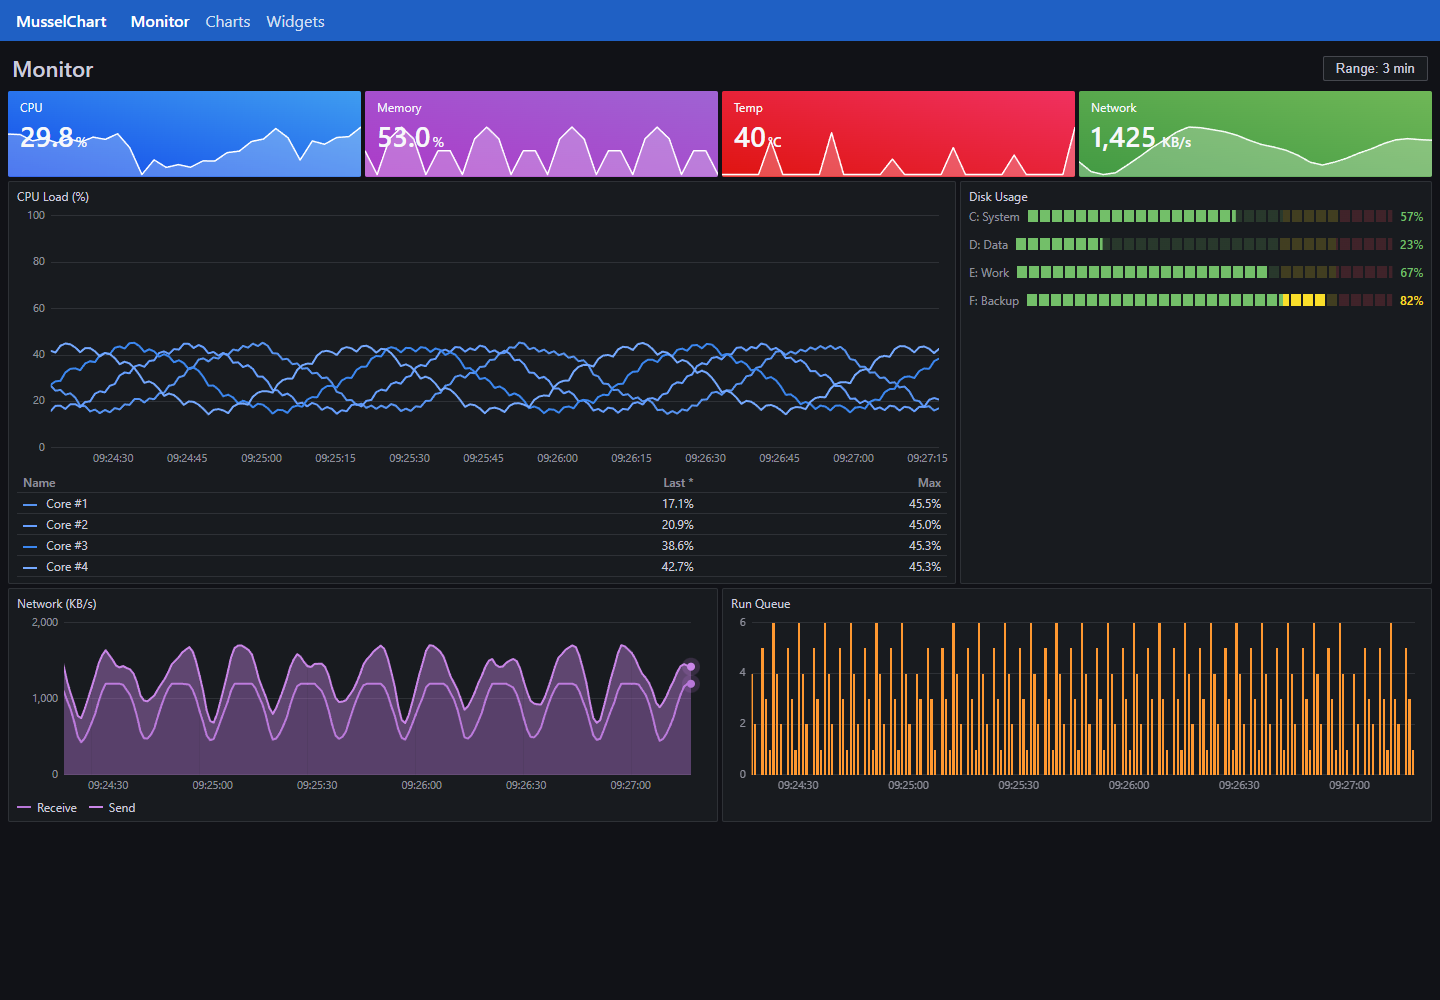
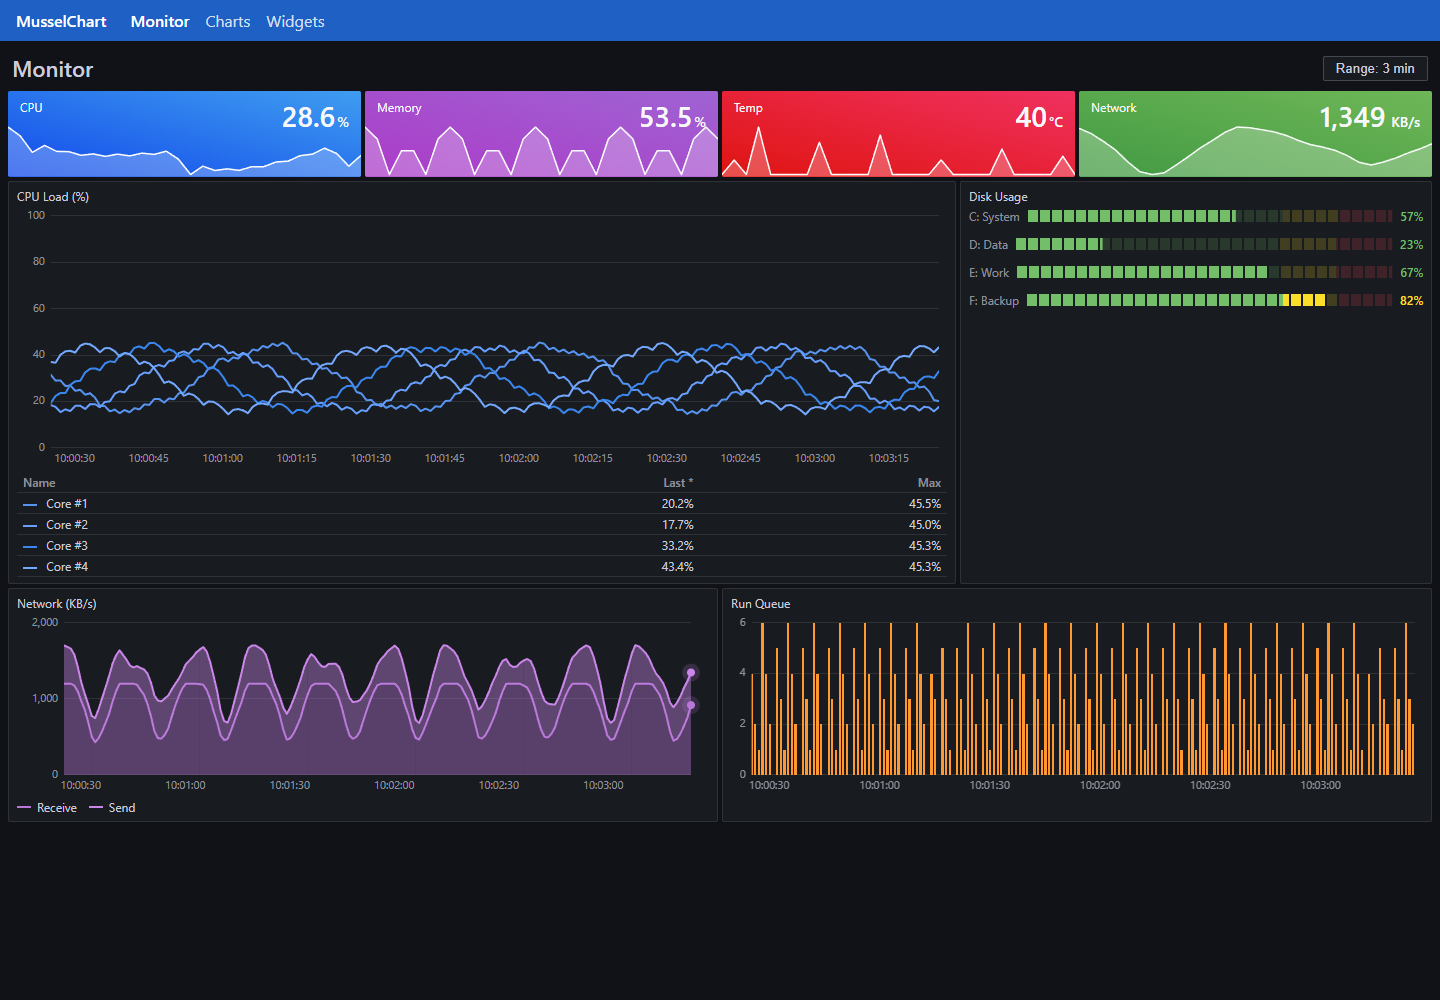
Update

diff --git a/MusselChart/MusselStatView.razor.css b/MusselChart/MusselStatView.razor.css
@@ -49,6 +49,19 @@
     font-size: 14px;
 }
 
+.mussel-stat-horizontal .mussel-stat-header {
+    display: flex;
+    align-items: flex-start;
+    justify-content: space-between;
+    gap: 8px;
+}
+
+.mussel-stat-horizontal .mussel-stat-value {
+    margin-top: 0;
+    text-align: right;
+    white-space: nowrap;
+}
+
 .mussel-stat-trend {
     display: block;
     margin-top: 4px;

diff --git a/MusselChart/MusselStatView.razor.cs b/MusselChart/MusselStatView.razor.cs
@@ -64,6 +64,9 @@ public sealed partial class MusselStatView
     public ChartStatColorMode ColorMode { get; set; }
 
     [Parameter]
+    public ChartStatLayoutMode LayoutMode { get; set; }
+
+    [Parameter]
     public ChartFillMode FillMode { get; set; }
 
     [Parameter]
@@ -111,6 +114,7 @@ public sealed partial class MusselStatView
 
         var text = filled ? (ChartColor.Brightness(tileColor) > BrightThreshold ? " mussel-stat-dark-text" : " mussel-stat-light-text") : string.Empty;
         var empty = Double.IsNaN(Value) ? " mussel-stat-empty" : string.Empty;
-        rootClass = "mussel-stat" + text + empty;
+        var layout = LayoutMode == ChartStatLayoutMode.Horizontal ? " mussel-stat-horizontal" : string.Empty;
+        rootClass = "mussel-stat" + layout + text + empty;
     }
 }

diff --git a/MusselChart.Tests/MusselWidgetTests.cs b/MusselChart.Tests/MusselWidgetTests.cs
@@ -75,6 +75,18 @@ public sealed class MusselWidgetTests : BunitContext
     }
 
     [Fact]
+    public void StatHorizontalLayoutPlacesValueBesideTitle()
+    {
+        var cut = Render<MusselStatView>(parameters => parameters
+            .Add(static p => p.Title, "CPU")
+            .Add(static p => p.Value, 1)
+            .Add(static p => p.LayoutMode, ChartStatLayoutMode.Horizontal));
+
+        Assert.Equal("mussel-stat mussel-stat-horizontal", cut.Find("div").ClassName);
+        Assert.Equal(["mussel-stat-title", "mussel-stat-value"], cut.Find(".mussel-stat-header").Children.Select(static x => x.ClassName));
+    }
+
+    [Fact]
     public void GaugeDrawsRatioValueAndTarget()
     {
         var cut = Render<MusselBarGaugeView>(parameters => parameters

diff --git a/MusselChart/ChartStatLayoutMode.cs b/MusselChart/ChartStatLayoutMode.cs
@@ -1,0 +1,7 @@
+namespace MusselChart;
+
+public enum ChartStatLayoutMode
+{
+    Vertical,
+    Horizontal
+}

diff --git a/README.md b/README.md
@@ -4,9 +4,8 @@
 
 ## 🐚 What is this?
 
-Charts for Blazor Server and Blazor WebAssembly drawn as SVG by Razor, made for dashboards and widgets.  
-Lines, areas, bars, KPI tiles, sparklines and bar gauges follow the names and the look of [ClamChart](https://github.com/usausa/clam-chart) for .NET MAUI.  
-A page needs no JavaScript library; a small module of the package measures the width and draws the tooltip in the browser.  
+Charts for Blazor drawn as SVG, made for dashboards and widgets.  
+Lines, areas, bars, KPI tiles, sparklines and bar gauges follow the look of [ClamChart](https://github.com/usausa/clam-chart) and stay light on Blazor Server, where only the new points go over the circuit.  
 
 | 🖥 Monitoring board | 📈 Charts | 🔢 Widgets |
 |:-:|:-:|:-:|
@@ -14,117 +13,47 @@ A page needs no JavaScript library; a small module of the package measures the w
 
 ## 🚀 Quick Start
 
-Add the package and its namespace.  
+Import the namespace; the styles come with the `{App}.styles.css` of the application.  
 
 ```razor
 @using MusselChart
 ```
 
-The styles of the components come with the `{App}.styles.css` of the application.  
-Link `musselchart.css` only when the dark values are used.  
-
-```html
-<link rel="stylesheet" href="_content/MusselChart/musselchart.css" />
-```
-
-Write the axes and the series inside a chart, with typed delegates for X and Y.  
+Write the axes and the series inside a chart.  
 
 ```razor
-<MusselChartView Height="260"
-                 LegendMode="ChartLegendMode.Table"
-                 LegendValues="ChartLegendValues.Last | ChartLegendValues.Max"
-                 TrackingGroup="monitor">
+<MusselChartView Height="240" TrackingGroup="monitor">
     <DateTimeAxis WindowSize="TimeSpan.FromMinutes(3)" />
     <NumericAxis Minimum="0" Maximum="100" />
     <LineSeries Items="Samples" X="static x => x.Time" Y="static x => x.Cpu" Title="CPU" ValueFormat="{0:N1}%" />
-    <AreaSeries Items="Samples" X="static x => x.Time" Y="static x => x.Io" Title="IO" FillOpacity="0.4" />
 </MusselChartView>
-
-<MusselStatView Title="CPU" Value="Cpu" Unit="%" ValueFormat="N1" TrendValues="CpuTrend"
-                ColorMode="ChartStatColorMode.Background" FillMode="ChartFillMode.Gradient" Fill="#5794F2"
-                TrendPlacement="ChartTrendPlacement.Background" />
 ```
 
-## ⚡ Real-time
-
-Give real-time data a `ChartRingBuffer<T>`.  
-A background service pushes each item once, every page reads the same buffer, and each chart draws only the items added since its last render.  
+Fill a `ChartRingBuffer<T>` from a background service; every page shares it and each chart draws only the new items.  
 
 ```csharp
 public ChartRingBuffer<Sample> Samples { get; } = new(190);
-
-Samples.Push(new Sample(DateTime.UtcNow, cpu, io));
 ```
-
-Points are kept in data coordinates and moved by a transform, and lines and areas are cut into keyed pieces of 32 points, so a new point sends only the last piece and the transform over the circuit of Blazor Server.  
-A board of four tiles, three charts and a gauge updated every second sends about 10 KB a second to a viewer before compression.  
-Other lists are read again on every render, so keep them for data that changes rarely.  
 
 ## 🎨 Look
 
-The colors are CSS variables with light defaults; set them on any container to restyle the charts inside it.  
-`musselchart.css` adds the class `mussel-dark` with the dark values.  
-
-| Variable | Use |
+| Part | Detail |
 |---|---|
-| `--mussel-primary-text`, `--mussel-secondary-text`, `--mussel-muted-text` | Text, axis labels and empty text |
-| `--mussel-grid-line`, `--mussel-track` | Grid lines, legend lines and the tracks of gauges |
-| `--mussel-tooltip-background`, `--mussel-tooltip-border`, `--mussel-tooltip-text` | Tooltip |
-| `--mussel-good`, `--mussel-warning`, `--mussel-serious`, `--mussel-critical` | Threshold lines and bands |
-
-Series colors come from `Palette` (`ChartPalettes`: default, Grafana, Material and single-hue shades, light and dark) or `Color`.  
+| Theme | CSS variables (`--mussel-primary-text`, `--mussel-grid-line` and more) with light defaults; `musselchart.css` adds the dark `mussel-dark` |
+| Colors | `Palette` (`ChartPalettes`: default, Grafana, Material and shades) or `Color` of a series |
+| Thresholds | Lines and bands on charts, the state of tiles and the colors of gauges |
+| Tiles and gauges | `ColorMode` and `LayoutMode` of a KPI tile, basic and segmented gauges |
 
 ## ✅ Supported features
 
 | Category | Detail |
 |---|---|
-| **Charts** | Line, area and bar series mixed in one chart, areas stacked by `StackGroup`, KPI tiles, line, area and bar sparklines, basic and segmented bar gauges |
-| **Axes** | A date and time axis with a sliding window, fixed ends and calendar ticks in a time zone, a numeric axis with fixed and soft ends, zero and nice ranges |
-| **Data** | `Items` with typed `X` and `Y` delegates, `ChartRingBuffer<T>` read incrementally, missing values (`NaN`) as gaps |
-| **Interaction** | A crosshair and a tooltip under the pointer (hover with a mouse, while touching on a touch screen), shared by `TrackingGroup`, and legend toggles |
-| **Look** | Legend as a list or a table with last, minimum, maximum and mean, threshold lines and bands, a pulsing live point, CSS variables and palettes |
-| **Size** | The width follows the container without scaling the text; before it is measured the chart is drawn 640 wide and scaled |
-
-Not yet: category and numeric X axes, pies, radars, heatmaps, state timelines, scatter and range bars, markers, smooth lines, annotations, selection, downsampling and animations other than the live point.  
-The tooltip formats values with `ValueFormat` (`N`, `F` and `P` formats and the compact number format) and does not call `ValueFormatter`.  
+| **Charts** | Line, area and bar series in one chart, stacked areas, KPI tiles, sparklines and bar gauges |
+| **Axes** | A date and time axis with a sliding window, a numeric axis with fixed and soft ranges |
+| **Data** | Typed `X` and `Y` delegates, `ChartRingBuffer<T>` read incrementally, gaps for missing values |
+| **Interaction** | A crosshair and a tooltip on hover or touch, shared by `TrackingGroup`, and legend toggles |
+| **Legend** | A list or a table with last, minimum, maximum and mean |
 
 ## 📖 API
 
-### MusselChartView
-
-| Name | Type | Default | Description |
-|---|---|---|---|
-| `Height` | `double` | `240` | Height in pixels; the width follows the container |
-| `Palette` | `IReadOnlyList<string>?` | `ChartPalettes.DefaultLight` | Series colors |
-| `LegendVisible` | `bool?` | `null` | `null` shows the legend for two or more series with a title |
-| `LegendMode`, `LegendValues` | `ChartLegendMode`, `ChartLegendValues` | `List`, `None` | A list, or a table with `Last`, `Min`, `Max` and `Mean` of the points in view |
-| `LegendToggleEnabled` | `bool` | `false` | Clicking a legend item hides or shows its series; the last visible series stays |
-| `TrackballMode` | `ChartTrackballMode` | `Hover` | `None` turns the crosshair and the tooltip off |
-| `TooltipVisible` | `bool` | `true` | `false` keeps only the crosshair and the points |
-| `TrackingGroup`, `TrackingGroupMode` | `string?`, `ChartTrackingGroupMode` | `null`, `Crosshair` | Charts of the same group follow the chart under the pointer; `Tooltip` also shows their tooltips |
-| `Thresholds`, `ThresholdsMode` | `IReadOnlyList<ChartThreshold>?`, `ChartThresholdsMode` | `null`, `None` | Threshold `Lines` and `Bands` on the value axis |
-| `Culture`, `TimeZone` | `CultureInfo?`, `TimeZoneInfo?` | current culture, local zone | Formats and the zone of the times; a `DateTime` without a kind is read in that zone |
-| `EmptyText` | `string?` | `null` | Text drawn when there is no data |
-
-`DateTimeAxis` takes `WindowSize`, `Minimum`, `Maximum`, `LabelFormat` and `LabelFormatter`, and `NumericAxis` takes `Minimum`, `Maximum`, `SoftMinimum`, `SoftMaximum`, `IncludeZero`, `NiceRange`, `LabelFormat` and `LabelFormatter`.  
-Both take `IsVisible`, `LabelsVisible`, `MaxLabelCount` and `GridLinesVisible`.  
-
-### Series
-
-| Series | Parameters |
-|---|---|
-| All | `Items`, `X`, `Y`, `Title`, `Color`, `IsVisible`, `LegendVisible`, `ValueFormat`, `ValueFormatter` |
-| `LineSeries` | `Thickness` (2), `LiveIndicatorVisible` |
-| `AreaSeries` | The line parameters, `FillOpacity` (0.1) and `StackGroup` |
-| `BarSeries` | `BarWidthRatio` (0.6) and `MaxBarWidth` (24) |
-
-### Widgets
-
-| Component | Parameters |
-|---|---|
-| `MusselStatView` | `Title`, `Value`, `ValueFormat`, `ValueFormatter`, `Unit`, `TrendValues`, `TrendPlacement`, `Thresholds`, `ColorMode` (`None`, `Value`, `Indicator`, `Background`), `FillMode`, `Fill`, `Palette`, `EmptyText`, `Culture`; the tile fills the height of its container |
-| `MusselSparklineView` | `Values`, `Kind` (`Line`, `Area`, `Bar`), `Color`, `Palette`, `Thickness`, `Minimum`, `Maximum`, `Height` |
-| `MusselBarGaugeView` | `Items` (`ChartEntry` with a label, a value, a color, a maximum and a target), `Minimum`, `Maximum`, `DisplayMode` (`Basic`, `Segmented`), `SegmentWidth`, `BarThickness`, `LabelPosition`, `ValueVisible`, `ValueMode` (`Value`, `Percent`, `ValueOfMaximum`), `ValueFormat`, `ValueFormatter`, `TrackVisible`, `Thresholds`, `Color`, `Palette`, `Culture` |
-
-Every component passes other attributes such as `class` and `id` to its root element.  
-`Example` has a monitoring board, charts and widgets.  
+See the [API reference](Document/API.md).  

diff --git a/Document/API.md b/Document/API.md
@@ -1,0 +1,94 @@
+# MusselChart API reference
+
+## 📈 MusselChartView
+
+Draws line, area and bar series on a date and time axis.  
+Axes and series are written as child components, and every component passes other attributes such as `class` and `id` to its root element.  
+
+| Name | Type | Default | Description |
+|---|---|---|---|
+| `Height` | `double` | `240` | Height in pixels; the width follows the container without scaling the text |
+| `Palette` | `IReadOnlyList<string>?` | `ChartPalettes.DefaultLight` | Series colors |
+| `LegendVisible` | `bool?` | `null` | `null` shows the legend for two or more series with a title |
+| `LegendMode`, `LegendValues` | `ChartLegendMode`, `ChartLegendValues` | `List`, `None` | A list, or a table with `Last`, `Min`, `Max` and `Mean` of the points in view |
+| `LegendToggleEnabled` | `bool` | `false` | Clicking a legend item hides or shows its series; the last visible series stays |
+| `TrackballMode` | `ChartTrackballMode` | `Hover` | `None` turns the crosshair and the tooltip off |
+| `TooltipVisible` | `bool` | `true` | `false` keeps only the crosshair and the points |
+| `TrackingGroup`, `TrackingGroupMode` | `string?`, `ChartTrackingGroupMode` | `null`, `Crosshair` | Charts of the same group follow the chart under the pointer; `Tooltip` also shows their tooltips |
+| `Thresholds`, `ThresholdsMode` | `IReadOnlyList<ChartThreshold>?`, `ChartThresholdsMode` | `null`, `None` | Threshold `Lines` and `Bands` on the value axis |
+| `Culture`, `TimeZone` | `CultureInfo?`, `TimeZoneInfo?` | current culture, local zone | Formats and the zone of the times; a `DateTime` without a kind is read in that zone |
+| `EmptyText` | `string?` | `null` | Text drawn when there is no data |
+
+### Axes
+
+| Axis | Parameters |
+|---|---|
+| Both | `IsVisible`, `LabelsVisible`, `LabelFormat`, `MaxLabelCount`, `GridLinesVisible` |
+| `DateTimeAxis` | `WindowSize`, `Minimum`, `Maximum`, `LabelFormatter` |
+| `NumericAxis` | `Minimum`, `Maximum`, `SoftMinimum`, `SoftMaximum`, `IncludeZero`, `NiceRange`, `LabelFormatter` |
+
+### Series
+
+| Series | Parameters |
+|---|---|
+| All | `Items`, `X`, `Y`, `Title`, `Color`, `IsVisible`, `LegendVisible`, `ValueFormat`, `ValueFormatter` |
+| `LineSeries` | `Thickness` (2), `LiveIndicatorVisible` |
+| `AreaSeries` | The line parameters, `FillOpacity` (0.1) and `StackGroup` |
+| `BarSeries` | `BarWidthRatio` (0.6) and `MaxBarWidth` (24) |
+
+The tooltip formats values with `ValueFormat` (`N`, `F` and `P` formats and the compact number format) and does not call `ValueFormatter`.  
+
+## 🔢 MusselStatView
+
+A KPI tile that fills the height of its container.  
+
+| Name | Description |
+|---|---|
+| `Title`, `Value`, `Unit` | Title, value and unit; `NaN` shows `EmptyText` without the unit |
+| `ValueFormat`, `ValueFormatter`, `Culture` | Format of the value; the default is the compact number |
+| `TrendValues`, `TrendPlacement` | Trend line at the `Bottom`, in the `Background` or `None` |
+| `Thresholds` | State by value |
+| `ColorMode`, `FillMode`, `Fill`, `Palette` | `None`, `Value`, `Indicator` or `Background`, solid or gradient |
+| `LayoutMode` | `Vertical` stacks the title and the value; `Horizontal` puts the value and the unit at the top right |
+
+## ✨ MusselSparklineView
+
+| Name | Description |
+|---|---|
+| `Values`, `Kind` | Values as a `Line`, an `Area` or `Bar`s |
+| `Color`, `Palette`, `Thickness` | Colors and the line width |
+| `Minimum`, `Maximum`, `Height` | Fixed range and the height in pixels |
+
+## 📶 MusselBarGaugeView
+
+| Name | Description |
+|---|---|
+| `Items` | `ChartEntry` with a label, a value, a color, a maximum and a target |
+| `Minimum`, `Maximum` | Range of every item; the maximum of an item comes first |
+| `DisplayMode`, `SegmentWidth`, `BarThickness` | `Basic` or `Segmented` bars |
+| `LabelPosition`, `ValueVisible`, `ValueMode` | Names at the `Top`, on the `Left` or `None`, and the value as a `Value`, a `Percent` or a `ValueOfMaximum` |
+| `ValueFormat`, `ValueFormatter`, `Culture` | Format of the numbers |
+| `TrackVisible`, `Thresholds`, `Color`, `Palette` | Track, threshold colors by percentage and the bar color |
+
+## 🧰 ChartRingBuffer
+
+| Member | Description |
+|---|---|
+| `ChartRingBuffer<T>(capacity)` | Keeps the latest `capacity` items; thread safe |
+| `Push`, `Clear` | Adds an item, or removes every item so that charts read again |
+| `Count`, `Capacity`, `Sequence`, `ToArray` | Items in the buffer, the size, the number of items pushed so far and a copy |
+
+## 🎨 Theme
+
+| Variable | Use |
+|---|---|
+| `--mussel-primary-text`, `--mussel-secondary-text`, `--mussel-muted-text` | Text, axis labels and empty text |
+| `--mussel-grid-line`, `--mussel-track` | Grid lines, legend lines and the tracks of gauges |
+| `--mussel-tooltip-background`, `--mussel-tooltip-border`, `--mussel-tooltip-text` | Tooltip |
+| `--mussel-good`, `--mussel-warning`, `--mussel-serious`, `--mussel-critical` | Threshold lines and bands |
+
+Link `_content/MusselChart/musselchart.css` and add `mussel-dark` to a container for the dark values.  
+
+## 🚧 Not supported yet
+
+Category and numeric X axes, pies, radars, heatmaps, state timelines, scatter and range bars, markers, smooth lines, annotations, selection, downsampling, animations other than the live point, and the `Auto` layout of KPI tiles.  
